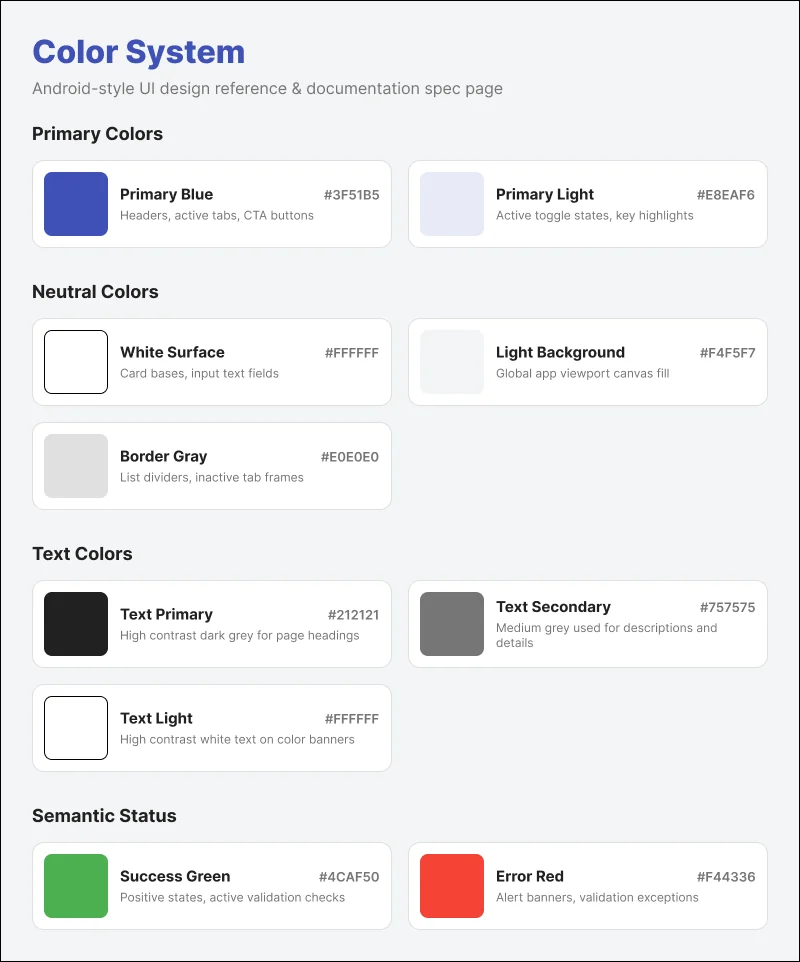
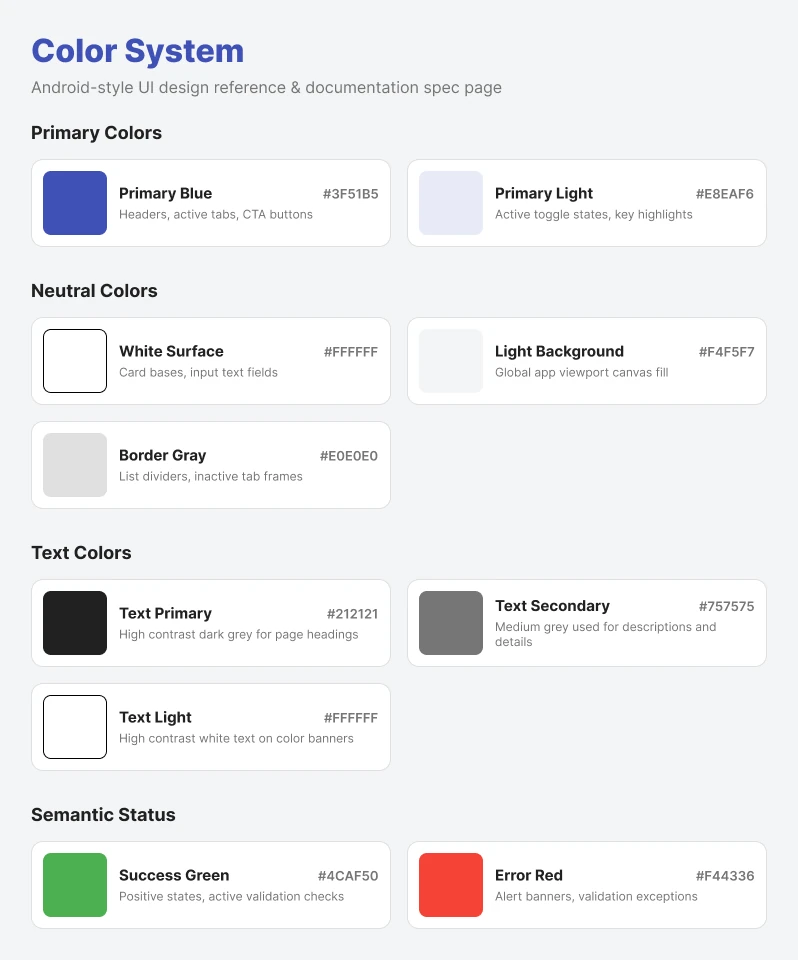
The editorial look
The editorial look added

diff --git a/index.html b/index.html
@@ -14,6 +14,7 @@
         html { scroll-padding-top: 80px; }
         .hero { padding: 112px 0 96px; }
         .hero-grid { grid-template-columns: 1fr 240px; gap: var(--space-6); }
+        .hero-avatar { display: none; width: 72px; height: 72px; border-radius: 50%; object-fit: cover; object-position: 50% 50%; margin-bottom: var(--space-3); }
         .hero-eyebrow { font-size: var(--fs-small); color: var(--color-text-secondary); font-weight: 500; margin-bottom: var(--space-2); }
         .hero h1 { font-size: clamp(2rem, 3.2vw + 1rem, 3.1rem); line-height: 1.12; letter-spacing: -0.025em; max-width: 18ch; margin-bottom: var(--space-3); }
         .hero-lede { color: var(--color-text-primary); max-width: 54ch; }
@@ -23,10 +24,10 @@
         .section-intro { color: var(--color-text-secondary); margin-top: calc(-1 * var(--space-1)); }
         .footer-grid.four { grid-template-columns: repeat(4, 1fr); }
         @media screen and (max-width: 768px) {
-            .hero { padding: 56px 0 64px; }
+            .hero { padding: 40px 0 56px; }
             .hero-grid { grid-template-columns: 1fr; }
-            .hero-visual { order: -1; }
-            .hero .hero-image-wrapper { max-width: 160px; margin: 0; }
+            .hero-visual { display: none; }
+            .hero-avatar { display: block; }
             .footer-grid.four { grid-template-columns: 1fr; }
         }
     </style>
@@ -48,6 +49,7 @@
         <div class="container">
             <div class="hero-grid">
                 <div class="hero-text reveal">
+                    <img class="hero-avatar" src="images/avatar-face.webp" alt="" aria-hidden="true" width="72" height="72" />
                     <p class="hero-eyebrow">Viola Kazemi &middot; Mobile Product Designer &middot; Toronto</p>
                     <h1>I design native iOS and Android apps, and the design systems behind them.</h1>
                     <p class="hero-lede">For 5+ years I&rsquo;ve shipped mobile products, including offline security apps used by 2M+ people. I studied computer engineering, so I design with the build in mind.</p>
@@ -70,7 +72,7 @@
     <!-- Selected Work -->
     <section id="work" class="section" style="background-color: var(--color-bg-band); border-top: 1px solid var(--color-border); border-bottom: 1px solid var(--color-border);">
         <div class="container">
-            <h2>Selected Work</h2>
+            <h2 class="section-title"><span class="section-num" aria-hidden="true">01</span>Selected Work</h2>
             <p class="section-intro">Shipped products, redacted where needed.</p>
             <a class="work-card work-card--feature" href="otp-authenticator" style="margin-top: var(--space-4);">
                 <div class="work-card__media"><img src="images/otp-thumbnail.webp" alt="Three screens of the Offline OTP Authenticator app" /></div>
@@ -86,7 +88,7 @@
     <!-- Concepts -->
     <section id="concepts" class="section">
         <div class="container">
-            <h2>Concepts</h2>
+            <h2 class="section-title"><span class="section-num" aria-hidden="true">02</span>Concepts</h2>
             <p class="section-intro">Self-initiated explorations, mostly in fintech and AI.</p>
             <div class="work-grid">
                 <a class="work-card" href="tomaan">
@@ -120,7 +122,7 @@
     <!-- More Work -->
     <section class="section" style="background-color: var(--color-bg-band); border-top: 1px solid var(--color-border); border-bottom: 1px solid var(--color-border);">
         <div class="container">
-            <h2>More Work</h2>
+            <h2 class="section-title"><span class="section-num" aria-hidden="true">03</span>More Work</h2>
             <div class="work-grid">
                 <a class="work-card" href="museum">
                     <div class="work-card__media"><img src="images/MuseumThumbnail.png" alt="Museum educator dashboard screens" loading="lazy" /></div>
@@ -141,25 +143,19 @@
     <!-- Experience -->
     <section id="experience" class="section">
         <div class="container">
-            <h2>Experience</h2>
-            <div style="margin-bottom: var(--space-4);">
-                <div style="border-bottom: 1px solid var(--color-border); padding: var(--space-3) 0;">
-                    <div style="display: flex; justify-content: space-between; align-items: baseline; gap: var(--space-3); flex-wrap: wrap;">
-                        <h3 style="margin: 0; font-size: var(--fs-body);">Unitedreams Inc.</h3>
-                        <span style="color: var(--color-text-secondary); font-size: var(--fs-small);">Sep 2024 to Present</span>
-                    </div>
-                    <p style="margin: 0.25rem 0 0; color: var(--color-text-secondary); font-size: var(--fs-small);">Product Designer &middot; Toronto</p>
-                    <p style="margin: 0.5rem 0 0; max-width: 65ch;">Native iOS and Android apps, including Capzy, an AI video captioning app. Accessible, privacy-first flows that meet WCAG 2.1 AA, AODA, and EU data regulations, shaped by usability studies.</p>
-                </div>
-                <div style="border-bottom: 1px solid var(--color-border); padding: var(--space-3) 0;">
-                    <div style="display: flex; justify-content: space-between; align-items: baseline; gap: var(--space-3); flex-wrap: wrap;">
-                        <h3 style="margin: 0; font-size: var(--fs-body);">Carrene Corp</h3>
-                        <span style="color: var(--color-text-secondary); font-size: var(--fs-small);">May 2021 to Sep 2024</span>
-                    </div>
-                    <p style="margin: 0.25rem 0 0; color: var(--color-text-secondary); font-size: var(--fs-small);">UI/UX Designer &middot; Tehran, Iran</p>
-                    <p style="margin: 0.5rem 0 0; max-width: 65ch;">Native iOS and Android offline one-time-password apps that secured card transactions for 2M+ users. Architected a unified design system and contributed to a login redesign that reduced fraudulent logins.</p>
-                </div>
-            </div>
+            <h2 class="section-title"><span class="section-num" aria-hidden="true">04</span>Experience</h2>
+            <ol class="xp-list">
+                <li class="xp-row">
+                    <span class="xp-dates">Sep 2024 &ndash; Present</span>
+                    <span class="xp-role">Product Designer</span>
+                    <span class="xp-company">Unitedreams &middot; Toronto</span>
+                </li>
+                <li class="xp-row">
+                    <span class="xp-dates">May 2021 &ndash; Sep 2024</span>
+                    <span class="xp-role">UI/UX Designer</span>
+                    <span class="xp-company">Carrene &middot; Tehran, Iran</span>
+                </li>
+            </ol>
             <a href="ViolaKazemi.pdf" class="text-link">Download full resume &rarr;</a>
         </div>
     </section>

diff --git a/assets/css/main.css b/assets/css/main.css
@@ -570,3 +570,35 @@ input.switch:focus-visible { outline: 2px solid var(--color-text-primary); outli
     /* Largest text on the smallest phones: keep the full name visible; Work is the next section down */
     html[data-text="larger"] .site-nav a[href="#work"] { display: none; }
 }
+
+/* ==========================================================================
+   9. EDITORIAL LAYER: dot grid, numbered sections, experience list
+   ========================================================================== */
+body {
+    background-image: radial-gradient(circle at 1px 1px, rgba(28, 38, 31, 0.13) 1px, transparent 1.4px);
+    background-size: 22px 22px;
+    background-position: -1px -1px;
+}
+:root[data-contrast="more"] body { background-image: none; }
+@media (prefers-contrast: more) { :root:not([data-contrast="standard"]) body { background-image: none; } }
+
+.section-title { display: flex; flex-direction: column; gap: 10px; }
+.section-num {
+    font-size: var(--fs-small); font-weight: 500; letter-spacing: 0.08em; color: var(--color-text-secondary);
+    font-variant-numeric: tabular-nums; padding-top: 14px; border-top: 1px solid var(--color-text-primary);
+    width: 100%; max-width: 100%; line-height: 1;
+}
+
+.xp-list { list-style: none; margin: var(--space-4) 0 var(--space-4); padding: 0; border-top: 1px solid var(--color-border); width: 100%; max-width: 100%; }
+.xp-row {
+    display: grid; grid-template-columns: 11rem 1fr auto; gap: var(--space-3); align-items: baseline;
+    padding: 20px 0; border-bottom: 1px solid var(--color-border); margin: 0;
+}
+.xp-dates { color: var(--color-text-secondary); font-size: var(--fs-small); font-variant-numeric: tabular-nums; }
+.xp-role { font-weight: 600; }
+.xp-company { color: var(--color-text-secondary); text-align: right; }
+@media screen and (max-width: 640px) {
+    .xp-row { grid-template-columns: 1fr; gap: 2px; padding: 16px 0; }
+    .xp-company { text-align: left; }
+    .xp-dates { order: 3; margin-top: 4px; }
+}

diff --git a/otp-authenticator.html b/otp-authenticator.html
@@ -201,7 +201,7 @@
             <h2>The design system</h2>
             <p style="max-width: 100%;">I architected a unified design system of 20 components that five or more product teams adopted. After it rolled out, our QA team reported far fewer color and style inconsistencies, and handoff to developers became faster.</p>
             <div style="max-width: 800px; margin: var(--space-4) auto 0;">
-                <img src="images/otp-color-system.webp" alt="Color system documentation: primary, neutral, text, and semantic status colors with hex values and usage notes" loading="lazy" width="800" height="962" style="width: 100%; height: auto; border-radius: var(--radius-md); box-shadow: var(--shadow-sm); display: block;" />
+                <img src="images/otp-color-system.webp" alt="Color system documentation: primary, neutral, text, and semantic status colors with hex values and usage notes" loading="lazy" width="798" height="960" style="width: 100%; height: auto; border-radius: var(--radius-md); border: 1px solid var(--color-border); box-shadow: var(--shadow-sm); display: block;" />
             </div>
         </div>
     </section>
